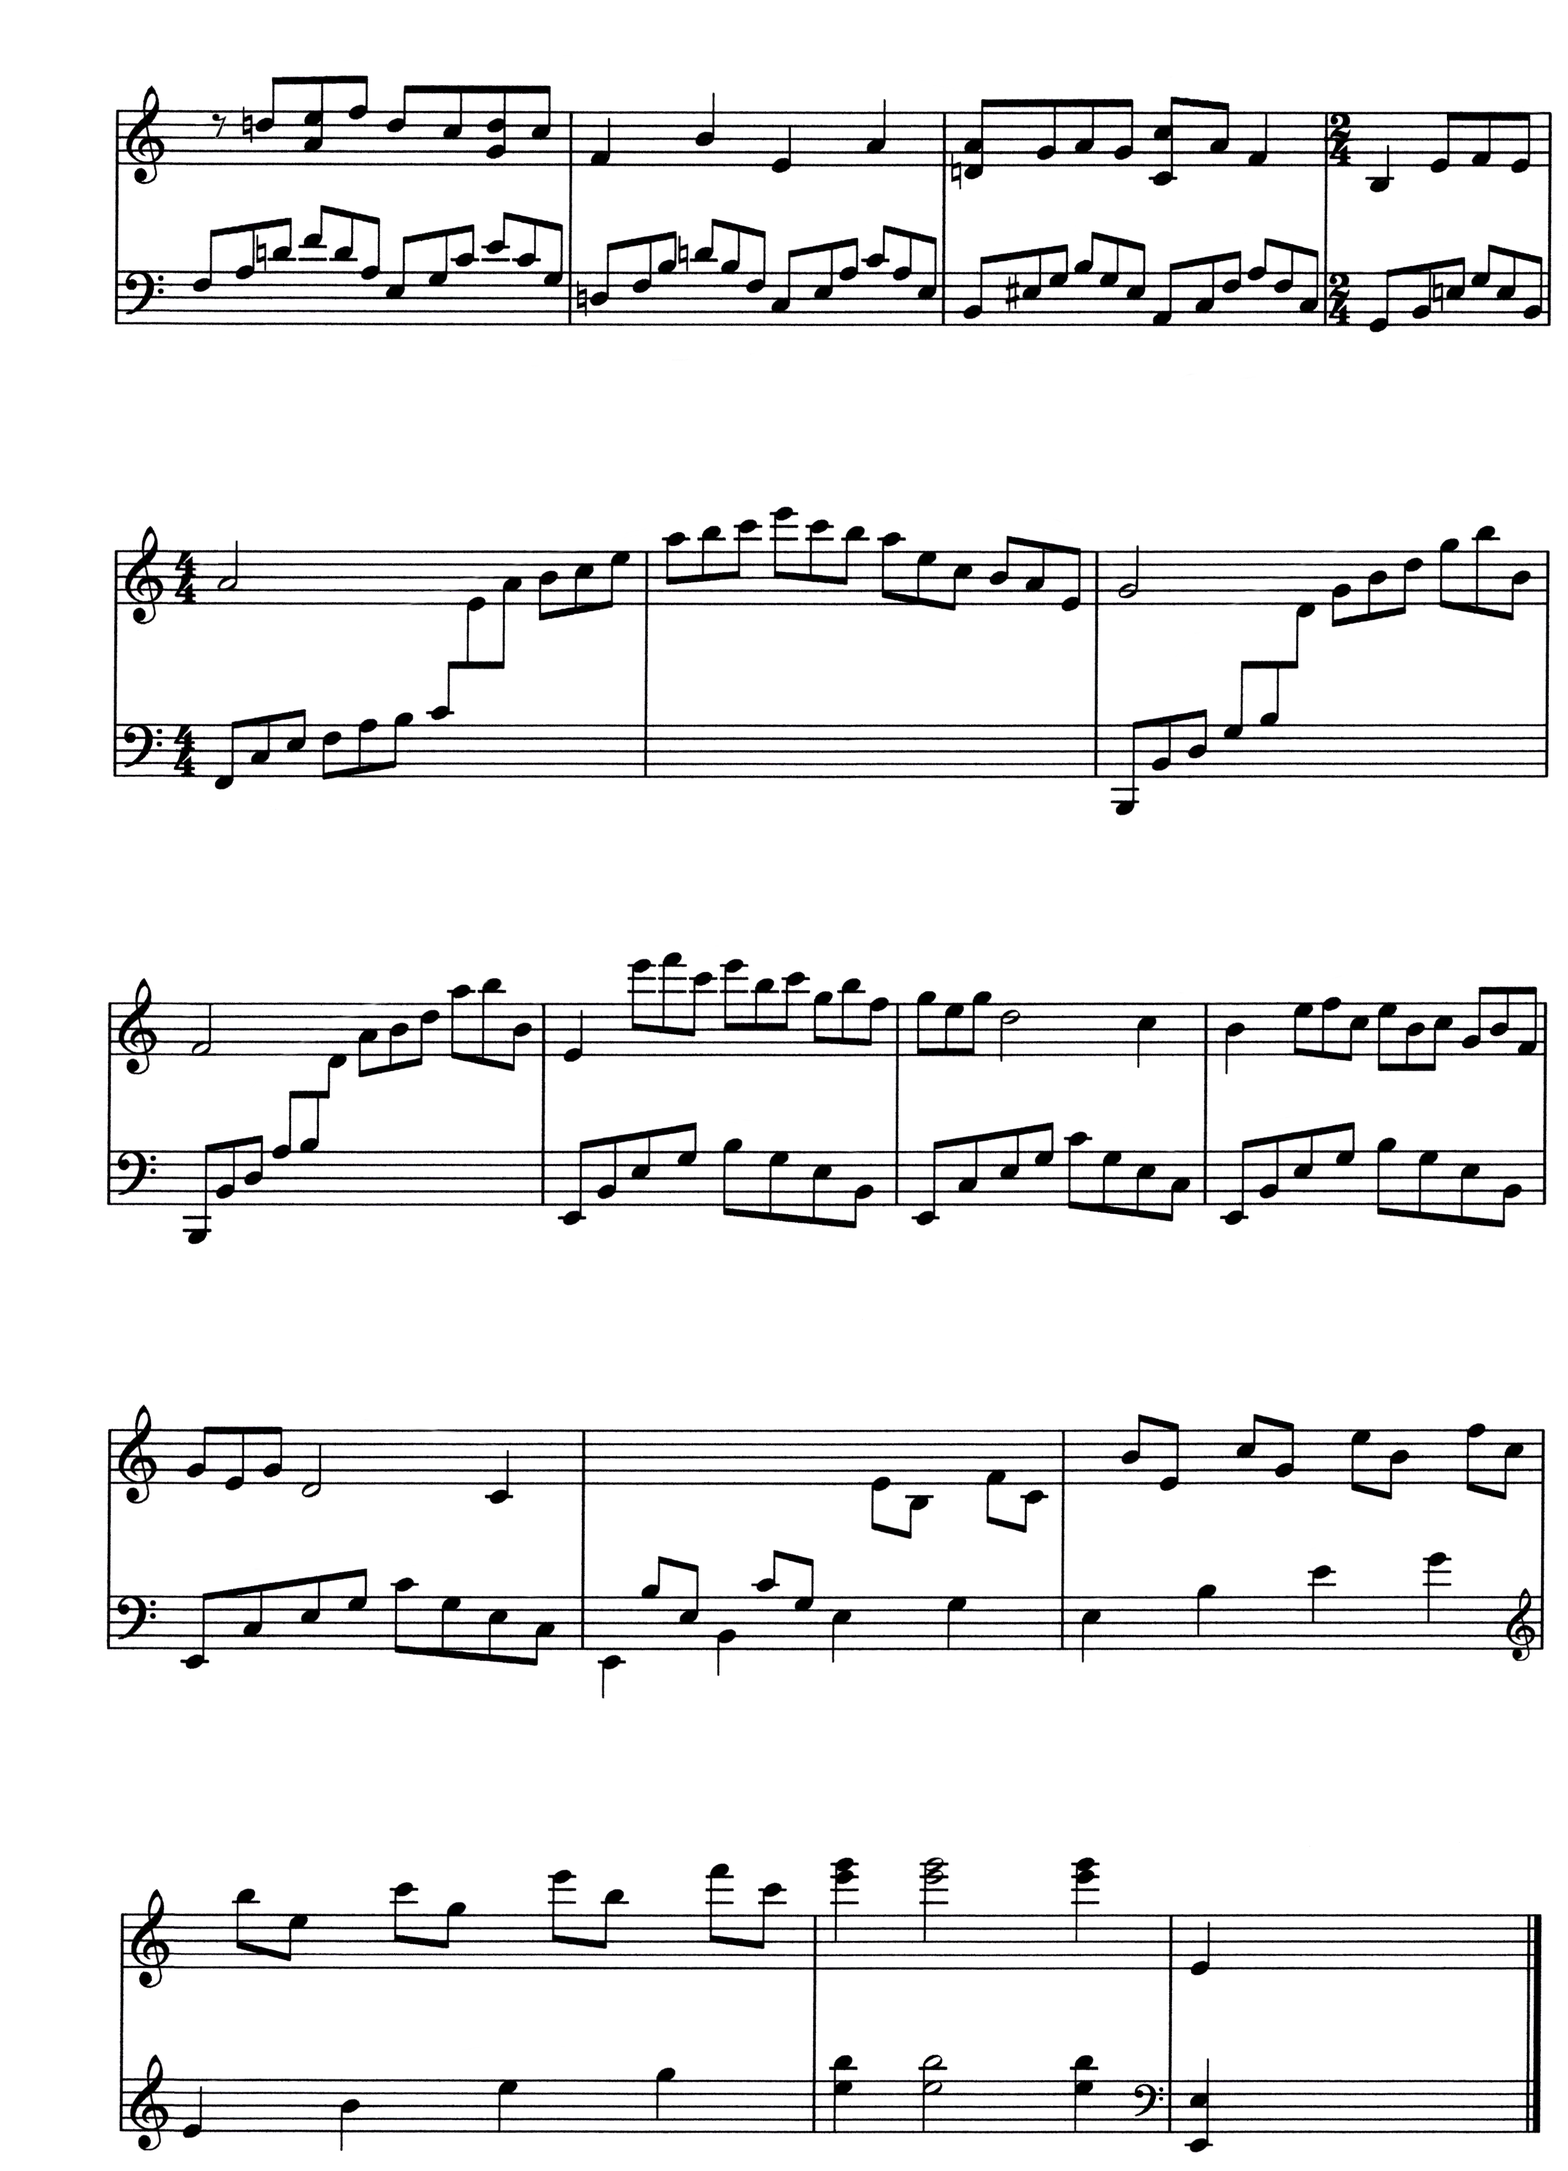
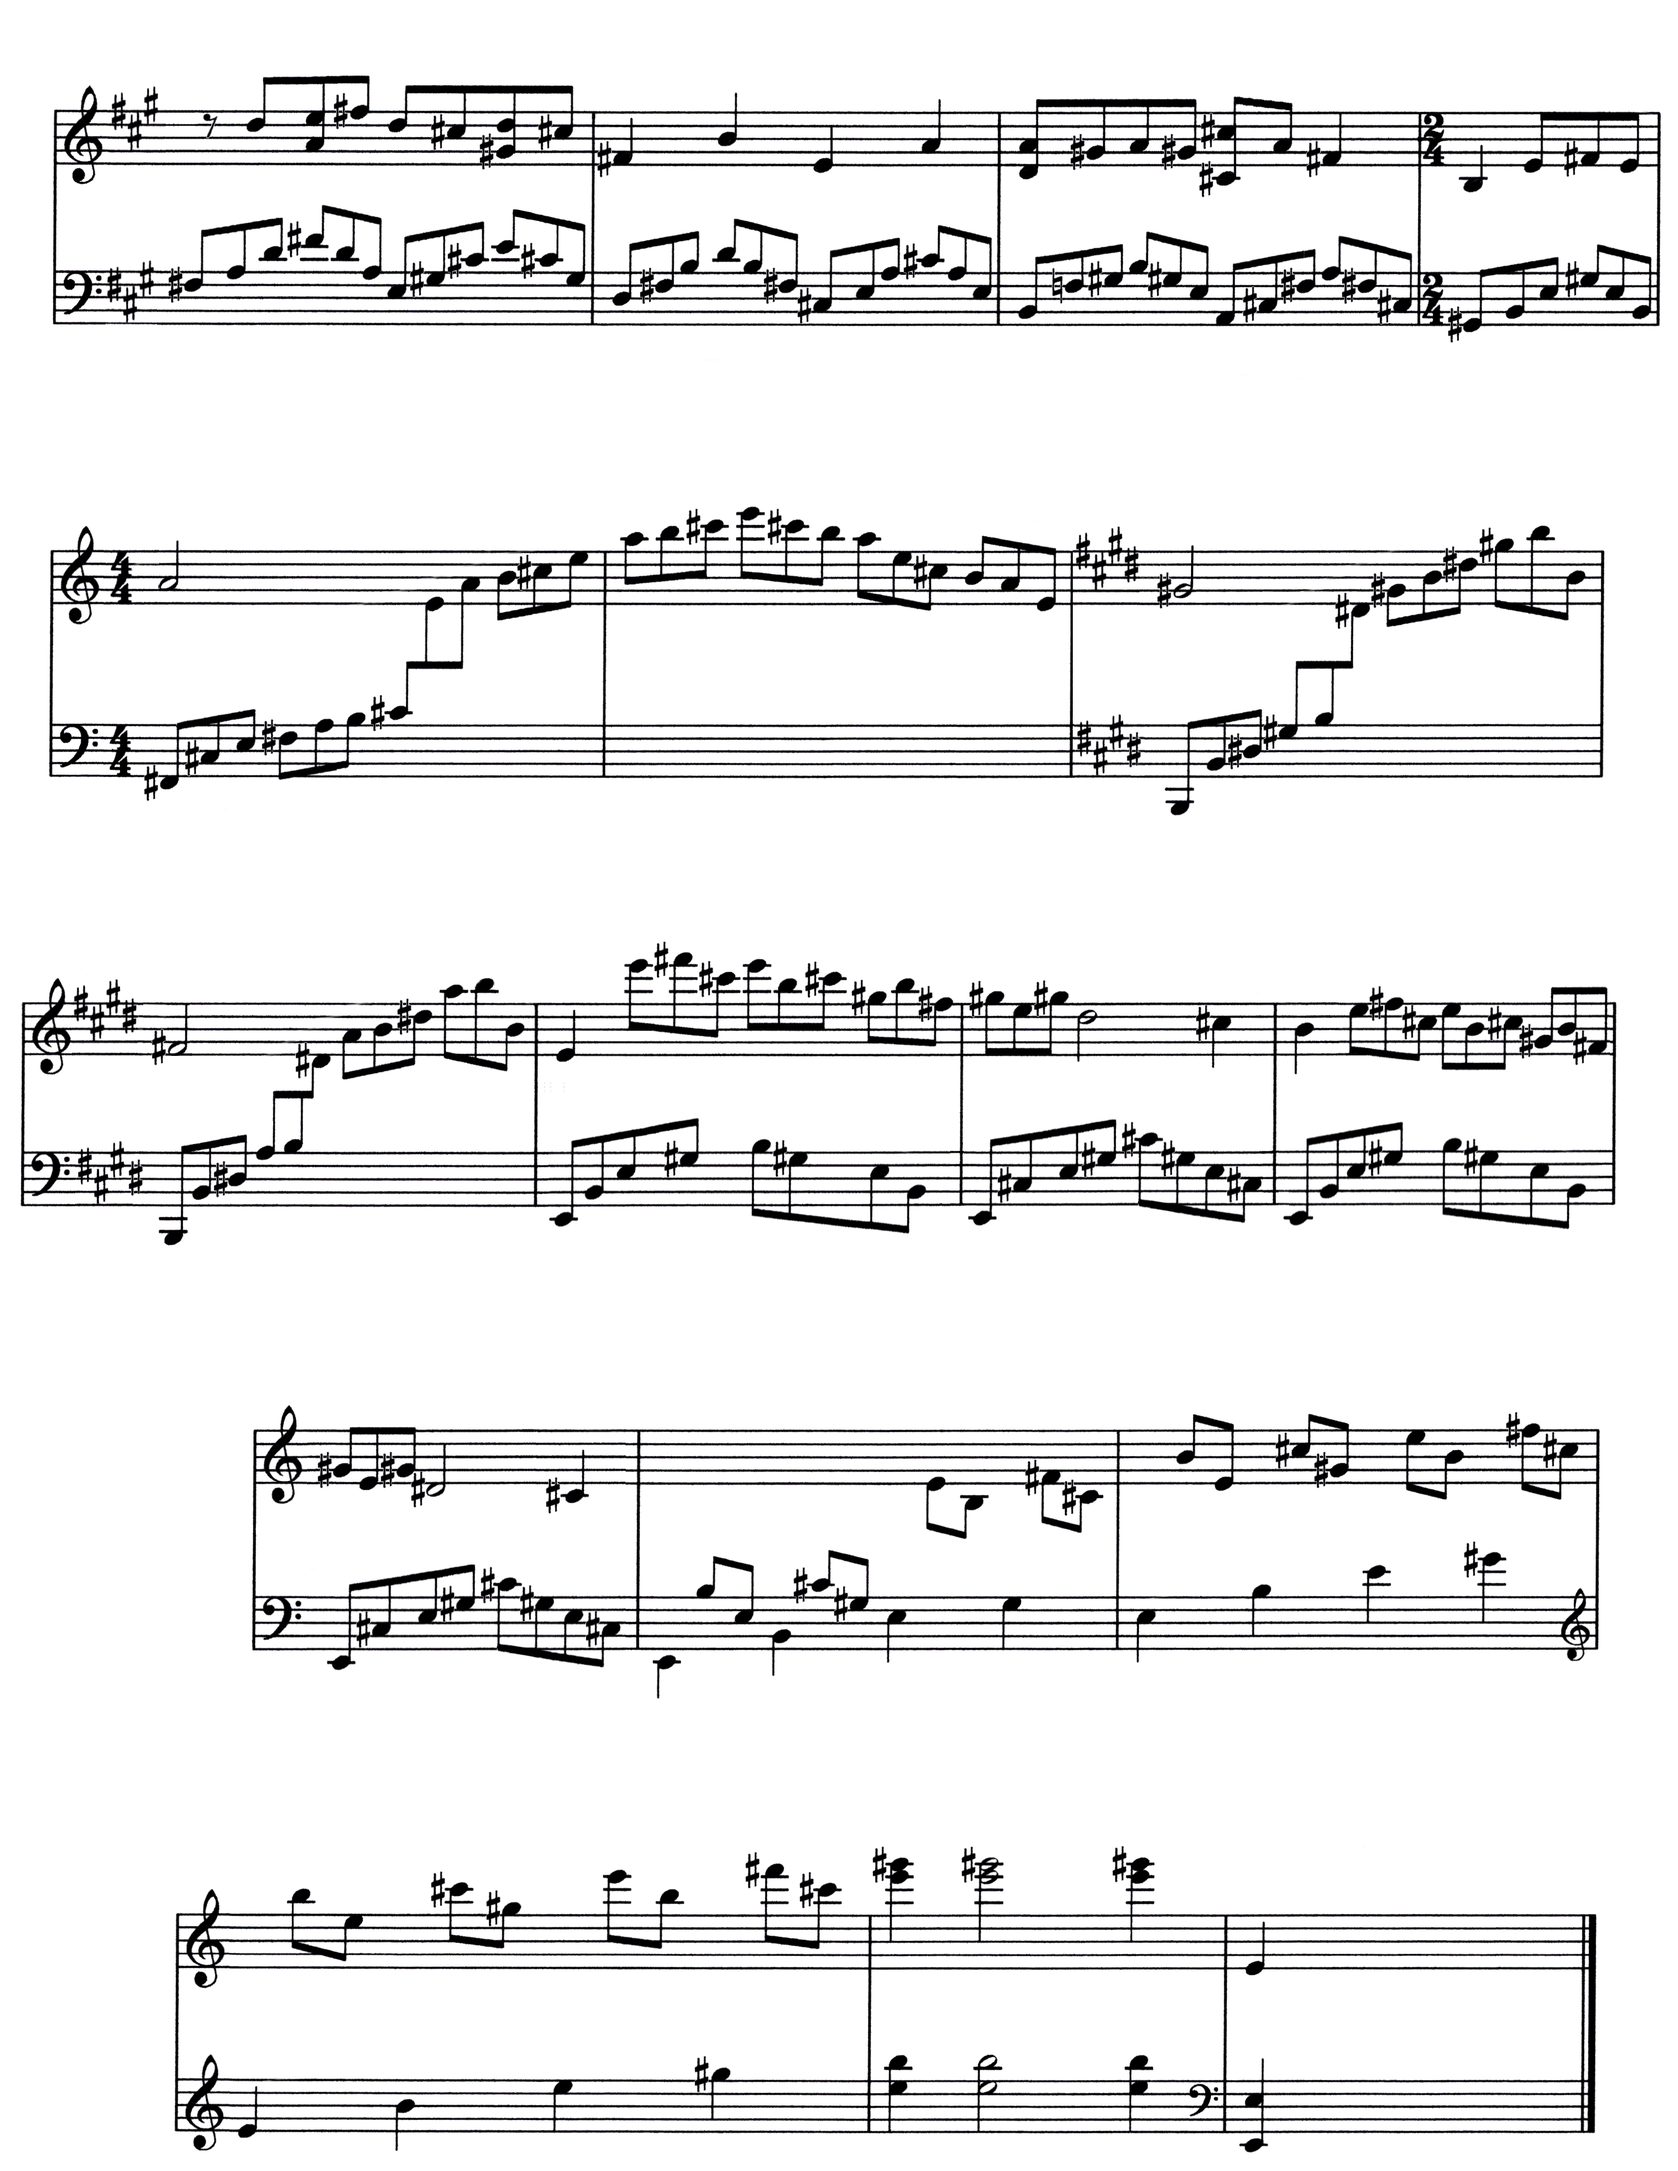
🎼 debussy-arabesque-1-sheet-music-simplified-page-5: added accidentals (even when part of key).

diff --git a/debussy-arabesque-1/debussy-arabesque-1-todo.md b/debussy-arabesque-1/debussy-arabesque-1-todo.md
@@ -43,8 +43,7 @@ TODO
 - [x] Removing extension bows.
 - [x] ~~Removing repeated clefts.~~ > Changes too often.
 - [x] Simplifying note durations / voicing notation.
-- [ ] __Adding accidentals__ (even when part of key) (might take a few hours more).
-    - [ ] WAS AT: page 5
-- [ ] Change B# => C | Cb => B | E# => F | Fb => E
+- [x] Adding accidentals (even when part of key) (might take a few hours more).
+- [x] Change B# => C | Cb => B | E# => F | Fb => E
 - [ ] Adding title (adding the word 'simplified')
 - [ ] Adding page numbers (font not too small)
